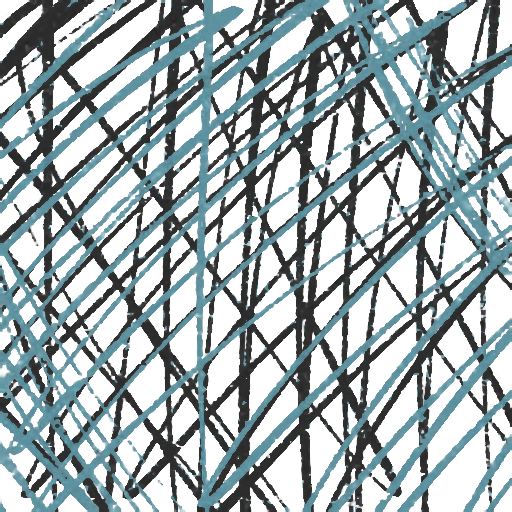
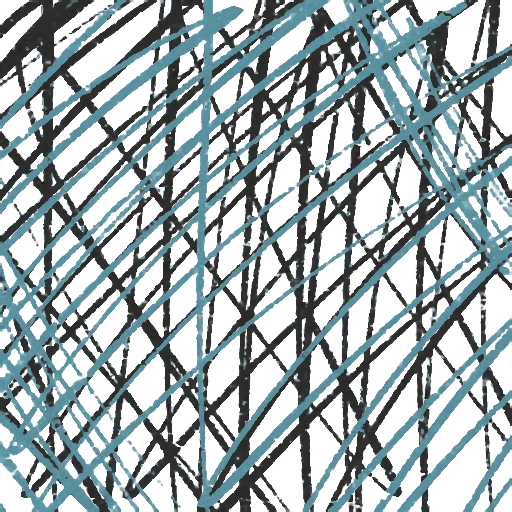
fixed quantization

diff --git a/trainer.py b/trainer.py
@@ -96,7 +96,7 @@ coords = torch.cartesian_prod(pixel_centers_y, pixel_centers_x)
 target = torch.flatten(image, start_dim=0, end_dim=1)
 
 device = get_device()
-print("device : " + device)
+#print("device : " + device)
 
 model = NeuralTexture().to(device)
 
@@ -117,7 +117,7 @@ for step in range(config['epochs']):
     loss = criterion(sample_predictions, sample_targets)
     psnr = -10 * torch.log10(loss)
     if (step % 200 == 0): PSNRs.append(round(psnr.item(), 3))
-    if (step % 400 == 0): print("running epoch " + str(step) + "/" + str(config['epochs']))
+    #if (step % 400 == 0): print("running epoch " + str(step) + "/" + str(config['epochs']))
     loss.backward()
     optimizer.step()
     # for name, param in model.named_parameters():
@@ -128,12 +128,21 @@ for step in range(config['epochs']):
 
 coords = coords.to(device)
 target = target.to(device)
-if (config['quantize']): quantize_model(model)
+print("PSNRs (taken every 200 epochs):")
+print(PSNRs)
+
 model.eval()
 with torch.no_grad():
     output = model(coords)
     loss = criterion(output, target)
+if (config['quantize']): 
+    quantize_model(model)
+    with torch.no_grad():
+        quantized_output = model(coords)
+        quantized_loss = criterion(quantized_output, target)
+    quantized_psnr = -10 * torch.log10(quantized_loss.to('cpu')).item()
 final_psnr = -10 * torch.log10(loss.to('cpu')).item()
+
 output = output.to('cpu')
 output = torch.unflatten(output, dim=0, sizes = (image_height, image_width))
 output =  output.permute(2, 0, 1)
@@ -141,19 +150,15 @@ output = torch.clip(output, 0.0, 1.0)
 output = (output*255).to(torch.uint8)
 io.write_png(output, config['image_out'], compression_level = 0)
 print(f"wrote output texture to {config['image_out']}")
-print(f"Quantizatoin: {config['quantize']}")
-PSNRs.append(round(psnr.item(), 3))
-print("PSNRs (taken every 200 epochs):")
-print(PSNRs)
+#print(f"Quantizatoin: {config['quantize']}")
+
 print(f"Final PSNR: {final_psnr}")
+if (config['quantize']): print(f"Quantized PSNR: {quantized_psnr}")
 
 raw_bytes = image_width*image_height*3
-print(f"Raw bytes: {raw_bytes}")
 num_grid_params = sum(p.numel() for p in model.grid.parameters())
 num_mlp_params = sum(p.numel() for p in model.mlp.parameters())
-if(config['quantize']):
-    neural_bytes = num_grid_params + num_mlp_params * 4
-else:
-    neural_bytes = num_grid_params * 4 + num_mlp_params * 4
-print(f"Neural bytes: {neural_bytes}")
+neural_bytes = num_grid_params * 4 + num_mlp_params * 4
+quantized_bytes = num_grid_params + num_mlp_params * 4
 print(f"Compression ratio: {neural_bytes/raw_bytes}")
+print(f"Quantized compression ratio: {quantized_bytes/raw_bytes}")
